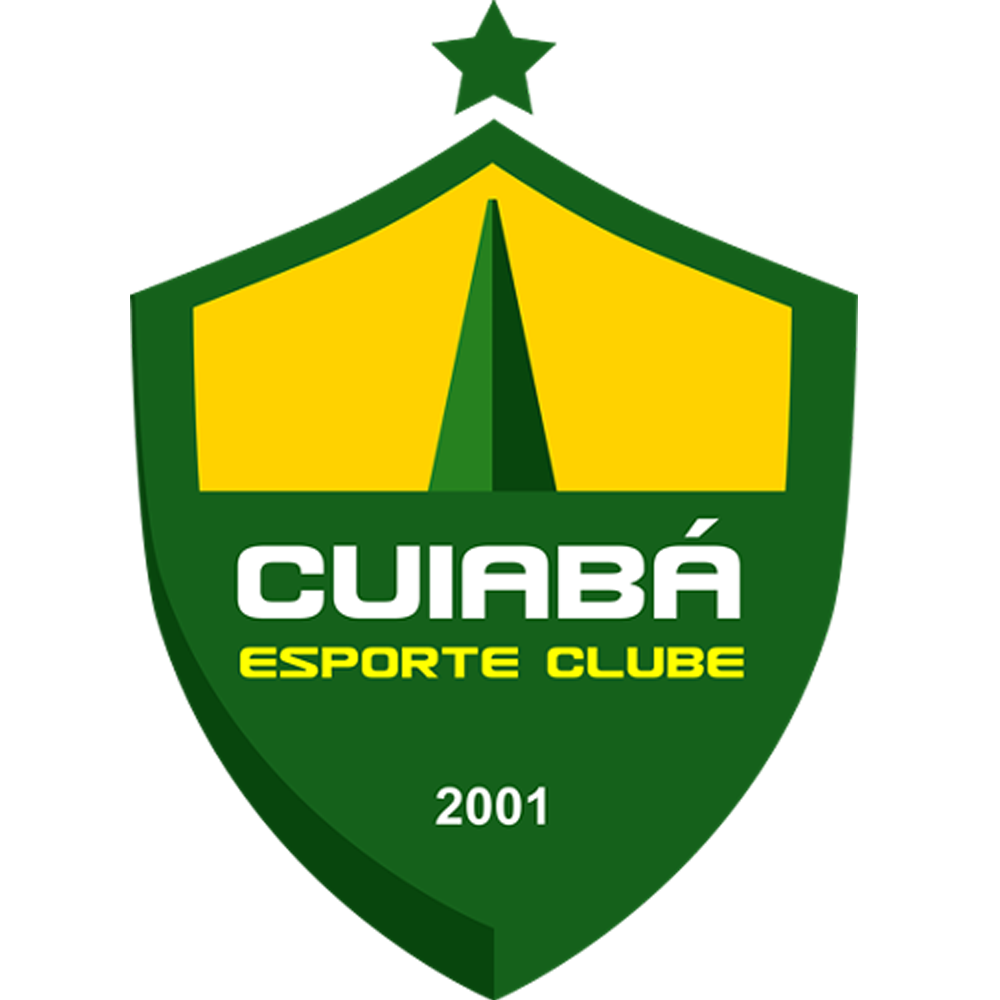
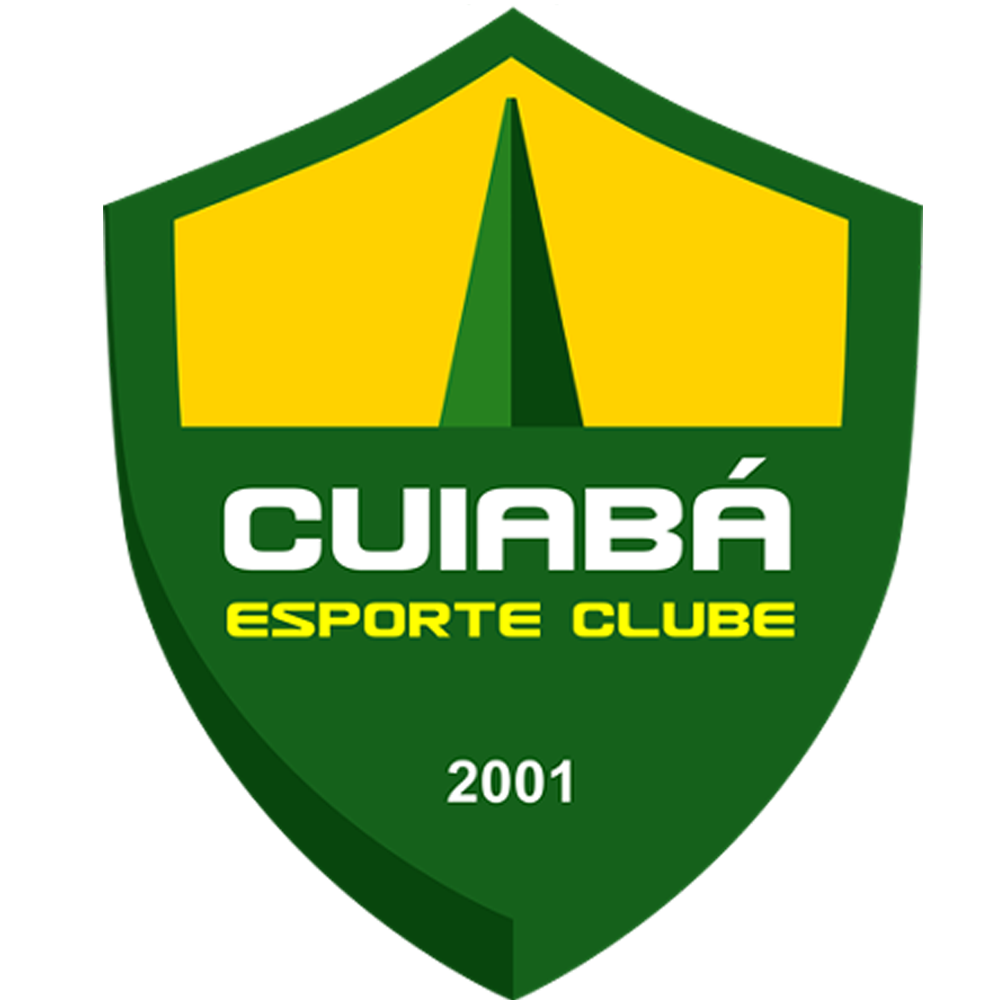
atualizando escudos e adversario()

diff --git a/tabela.js b/tabela.js
@@ -159,7 +159,10 @@ function adversario() {
 	var adversario = document.getElementById("selectadversario").value;
 	var adversarioNome = juntaNome(adversario);
 	document.getElementById("confrontoMeuTime").src = "index_files/" +time+".png";
+	document.getElementById("confrontoMeuTime").style.borderRadius = "5px";
 	document.getElementById("confrontoAdversario").src = "index_files/" +adversarioNome+".png";
+	document.getElementById("confrontoAdversario").style.backgroundColor = coresTimes(adversario)[0];
+	document.getElementById("confrontoAdversario").style.borderRadius = "5px";
 
 	if (adversario != "") {
 		limpaTabela();
@@ -169,24 +172,23 @@ function adversario() {
 
 		for (var i = 0; i < contador; i++) {
 			if (adversario == "Atlético-PR" || adversario == "Athletico-PR") {
-				if (jogos[i][0] == "Atlético-PR"
-					|| jogos[i][0] == "Athletico-PR"
-					|| jogos[i][1] == "Atlético-PR"
-					|| jogos[i][1] == "Athletico-PR") {
+				if (jogos[i][0] == "Atlético-PR" 
+				|| jogos[i][1] == "Atlético-PR"
+				|| jogos[i][0] == "Athletico-PR"
+				|| jogos[i][1] == "Athletico-PR") {
 					selecionados.push(jogos[i]);
 				}
 			} else if (adversario == "Bragantino" || adversario == "Red Bull Bragantino") {
-				if (jogos[i][0] == "Bragantino"
-					|| jogos[i][0] == "Red Bull Bragantino"
-					|| jogos[i][1] == "Bragantino"
-					|| jogos[i][1] == "Red Bull Bragantino") {
+				if (jogos[i][0] == "Bragantino" 
+				|| jogos[i][1] == "Bragantino"
+				|| jogos[i][0] == "Red Bull Bragantino"
+				|| jogos[i][1] == "Red Bull Bragantino") {
 					selecionados.push(jogos[i]);
 				}
 			} else if (adversario == jogos[i][0] || adversario == jogos[i][1]) {
 				selecionados.push(jogos[i]);
 			}
 		}
-
 		escreveLinhaOrdem(selecionados, ordemDecrescente, 'adversario');
 	}
 }
@@ -299,13 +301,11 @@ function ano() {
 function vitorias() {
 	limpaTabela();
 
-	var quantidade = 0;
 	var selecionados = [];
 
 	for (var i = 0; i < jogos.length; i++) {
 		if (((jogos[i][0] == time) && (jogos[i][2] > jogos[i][3])) ||
 			((jogos[i][1] == time) && (jogos[i][2] < jogos[i][3]))) {
-			quantidade += 1;
 			selecionados.push(jogos[i]);
 		}
 	}
@@ -316,12 +316,10 @@ function vitorias() {
 function empates() {
 	limpaTabela();
 
-	var quantidade = 0;
 	var selecionados = [];
 
 	for (var i = 0; i < jogos.length; i++) {
 		if (jogos[i][2] == jogos[i][3]) {
-			quantidade += 1;
 			selecionados.push(jogos[i]);
 		}
 	}
@@ -332,13 +330,11 @@ function empates() {
 function derrotas() {
 	limpaTabela();
 
-	var quantidade = 0;
 	var selecionados = [];
 
 	for (var i = 0; i < jogos.length; i++) {
 		if (((jogos[i][0] == time) && (jogos[i][2] < jogos[i][3])) ||
 			((jogos[i][1] == time) && (jogos[i][2] > jogos[i][3]))) {
-			quantidade += 1;
 			selecionados.push(jogos[i]);
 		}
 	}
@@ -468,18 +464,20 @@ function getEscudoName(time, jogo) {
 	var dataCortada = jogo[5].split("-");
 	var ano = parseInt(dataCortada[0]);
 
-	if (time == "Goiás" && ano >= 2019) {
+	if (time == "Goiás" && ano < 2019) {
 		return "Goiás2019";
 	} else if (time == "Internacional" && ano < 2009) {
 		return "Internacional2009";
-	} else if (time == "Náutico" && ano >= 2008) {
+	} else if (time == "Náutico" && ano < 2008) {
 		return "Náutico2008";
-	} else if (time == "Flamengo" && ano >= 2018) {
+	} else if (time == "Flamengo" && ano < 2018) {
 		return "Flamengo2018";
-	} else if (time == "Resende" && ano >= 2020) {
+	} else if (time == "Resende" && ano < 2020) {
 		return "Resende2020";
-	} else if (time == "Vasco" && ano >= 2021) {
+	} else if (time == "Vasco" && ano < 2021) {
 		return "Vasco2021";
+	} else if (time == "Atlético-GO" && ano < 2020) {
+		return "Atlético-GO2020";
 	}
 	return juntaNome(time);
 }

diff --git a/index.html b/index.html
@@ -59,7 +59,7 @@
 						<option value='Atlético-GO'>Atlético-GO</option>
 						<option value='Atlético-MG'>Atlético-MG</option>
 						<option value='Atlético Nacional-COL'>Atlético Nacional-COL</option>
-						<option value='Atlético-PR'>Atlético-PR (Athletico-PR)</option>
+						<option value='Athletico-PR'>Atlético-PR (Athletico-PR)</option>
 						<option value='Audax Italiano-CHI'>Audax Italiano-CHI</option>
 						<option value='Avaí'>Avaí</option>
 						<option value='Bahia'>Bahia</option>
@@ -68,7 +68,7 @@
 						<option value='Boa Esporte'>Boa Esporte</option>
 						<option value='Boavista'>Boavista</option>
 						<option value='Bonsucesso'>Bonsucesso</option>
-						<option value='Bragantino'>(Red Bull) Bragantino</option>
+						<option value='Red Bull Bragantino'>(Red Bull) Bragantino</option>
 						<option value='Brusque'>Brusque</option>
 						<option value='Ceará'>Ceará</option>
 						<option value='Chapecoense'>Chapecoense</option>
@@ -121,8 +121,9 @@
 						<option value='Volta Redonda'>Volta Redonda</option>
 					</select>
 					<br><br>
-					<img id="confrontoMeuTime" width="100" style="display: inline;">
-					<img id="confrontoAdversario" width="100" style="display: inline;">
+					<img id="confrontoMeuTime" width="80" style="display: inline;">
+					<!--<p id="versus" style="display: inline;"> X </p>-->
+					<img id="confrontoAdversario" width="80" style="display: inline;">
 				</div>
 
 				<div id='campeonato'>
